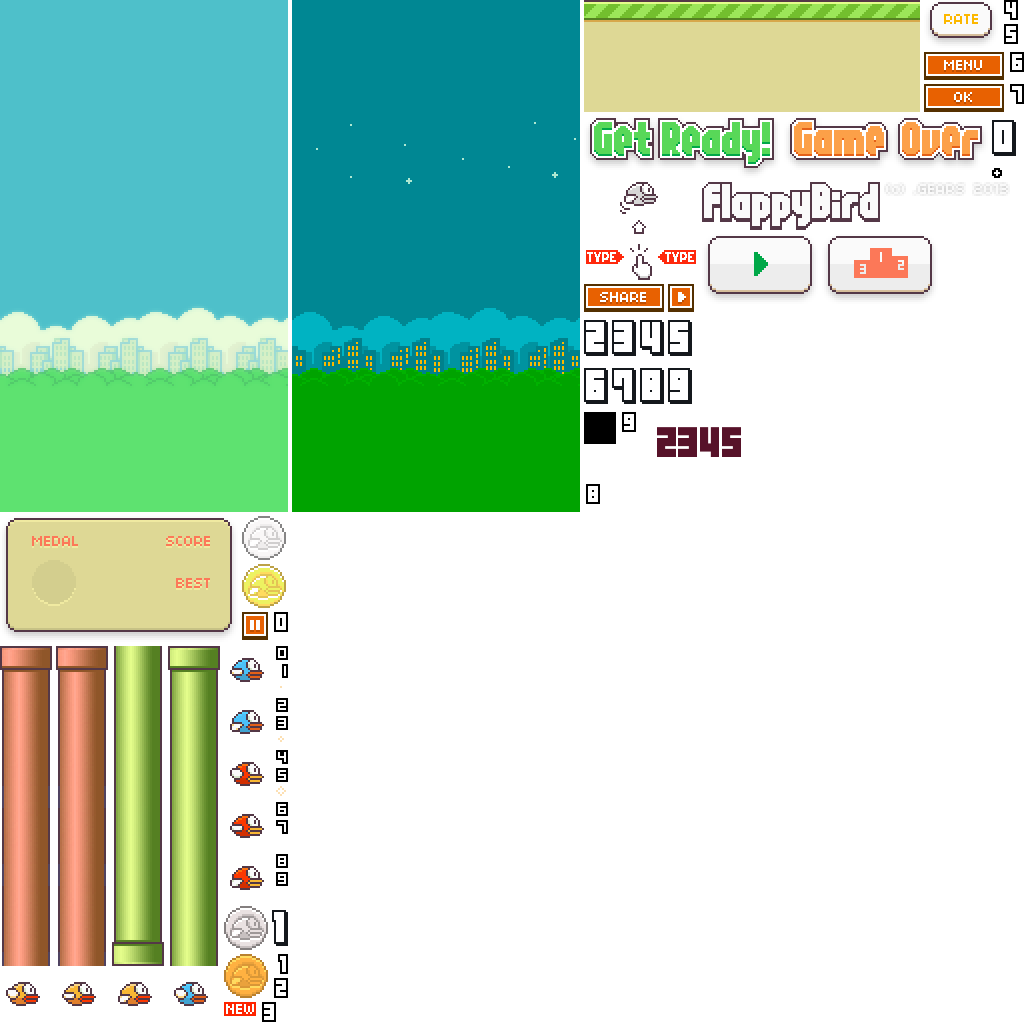
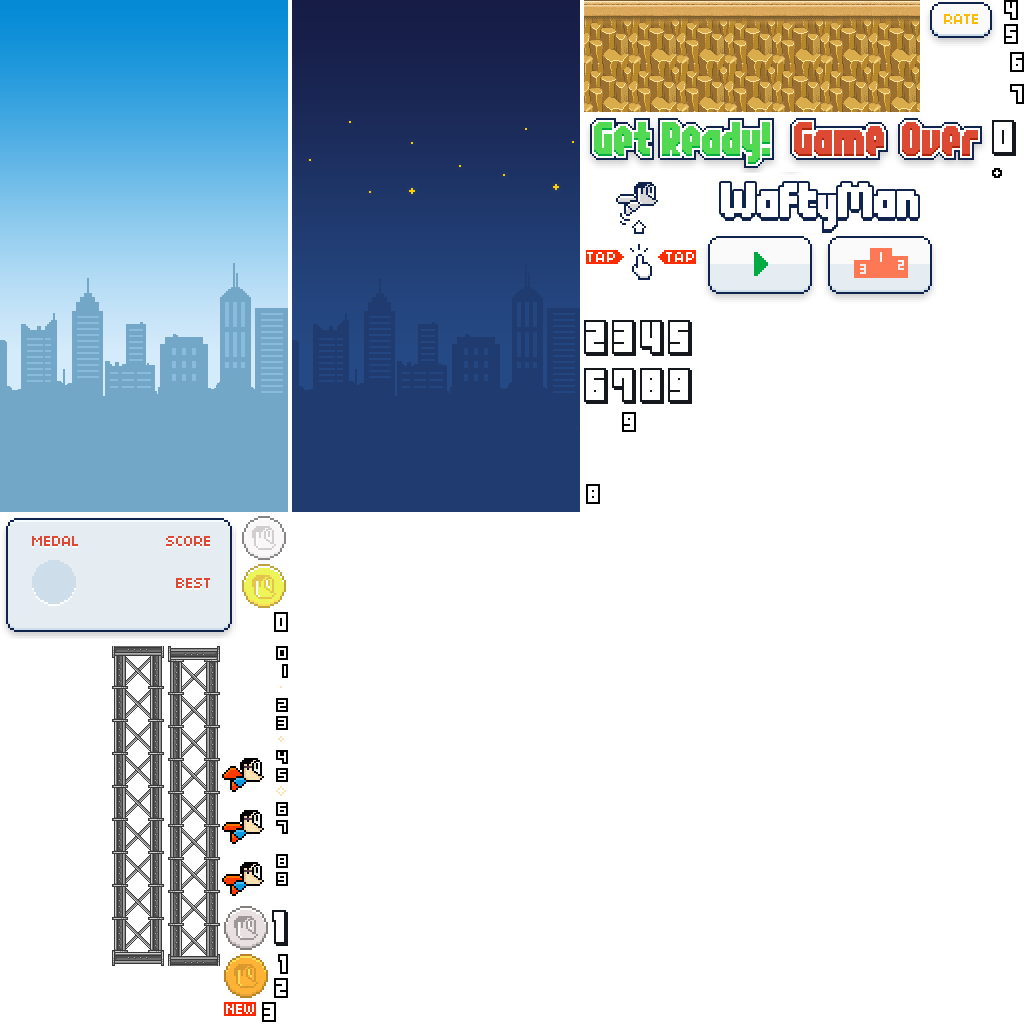
Updates to change to BTP Bird

diff --git a/src/screens/TitleScreen.js b/src/screens/TitleScreen.js
@@ -31,12 +31,11 @@
             atlas.render(gfx, "bg_day", 0, 0);
 
             var ySin = Math.sin(now / 150) * 7;
-            atlas.render(gfx, "title", 55, gfx.h * 0.18);
-            this.font.write(gfx, "typing tutor", 53, gfx.h * 0.30);
-            this.font.write(gfx, "typing tutor", 53 - 1, gfx.h * 0.30 - 1);
+            this.font.write(gfx, "btp bird", 80, gfx.h * 0.18);
+            this.font.write(gfx, "btp bird", 80 - 1, gfx.h * 0.18 - 1);
             atlas.render(
                 gfx,
-                "bird0_" + ((now / 100 | 0) % 3),
+                "wafty_" + ((now / 100 | 0) % 3),
                 gfx.w * 0.42,
                 gfx.h * 0.38 + ySin - 5
             );
@@ -45,12 +44,7 @@
             atlas.render(gfx, "land", -((now / 6 | 0) % 288), gfx.h - 112);
             atlas.render(gfx, "land", 289 - ((now / 6 | 0) % 288), gfx.h - 112);
 
-            atlas.render(gfx, "button_play", 20, gfx.h - 172);
-            atlas.render(gfx, "button_score", 152, gfx.h - 172);
-            atlas.render(gfx, "button_rate", 106, gfx.h - 242);
-
-            atlas.render(gfx, "brand_copyright", 73, gfx.h - 94);
-
+            atlas.render(gfx, "button_play", 85, gfx.h - 172);
         }
     });
 

diff --git a/res/main.css b/res/main.css
@@ -1,12 +1,24 @@
 body {
     background-color: #efefef;
-    text-align: center;
+    margin: 0;
+    padding: 0;
+    font-family: helvetica, arial, sans-serif;
+    font-size: 9pt;
 
     -moz-user-select: none;
     -khtml-user-select: none;
     -webkit-user-select: none;
     -o-user-select: none;
     user-select: none;
+}
+
+a {
+    color: #999;
+    text-decoration: none;
+}
+
+section {
+    text-align:center;
 }
 
 canvas {

diff --git a/index.html b/index.html
@@ -5,7 +5,7 @@
     <meta name="apple-mobile-web-app-capable" content="yes">
     <meta name="viewport" content="user-scalable=0, initial-scale=1.0" />
 
-    <title>Ω500 - flappy bird</title>
+    <title>BTP Bird</title>
     
     <script src="http://ajax.googleapis.com/ajax/libs/jquery/1.10.2/jquery.min.js"></script>
 

diff --git a/src/entities/Bird.js b/src/entities/Bird.js
@@ -119,7 +119,7 @@
 
             window.game.atlas.render(
                 gfx,
-                "bird" + this.color + "_" + Ω.utils.toggle(this.flapping, 3),
+                "wafty" + "_" + Ω.utils.toggle(this.flapping, 3),
                 this.x - 11,
                 this.y - 17);
 
